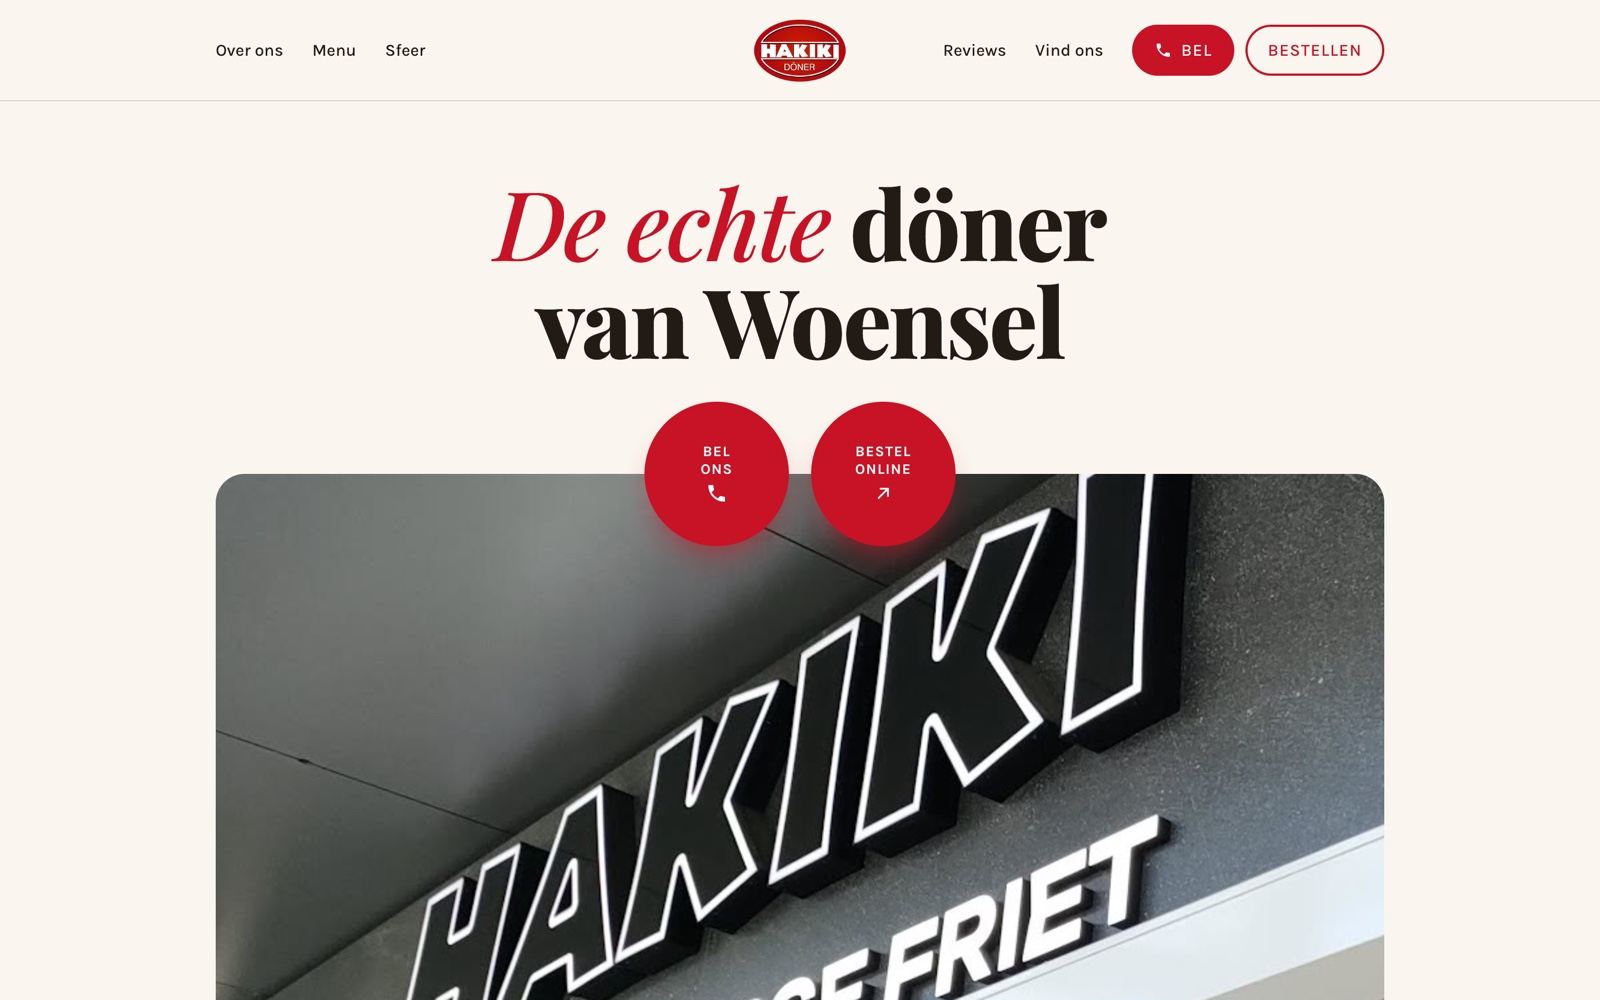
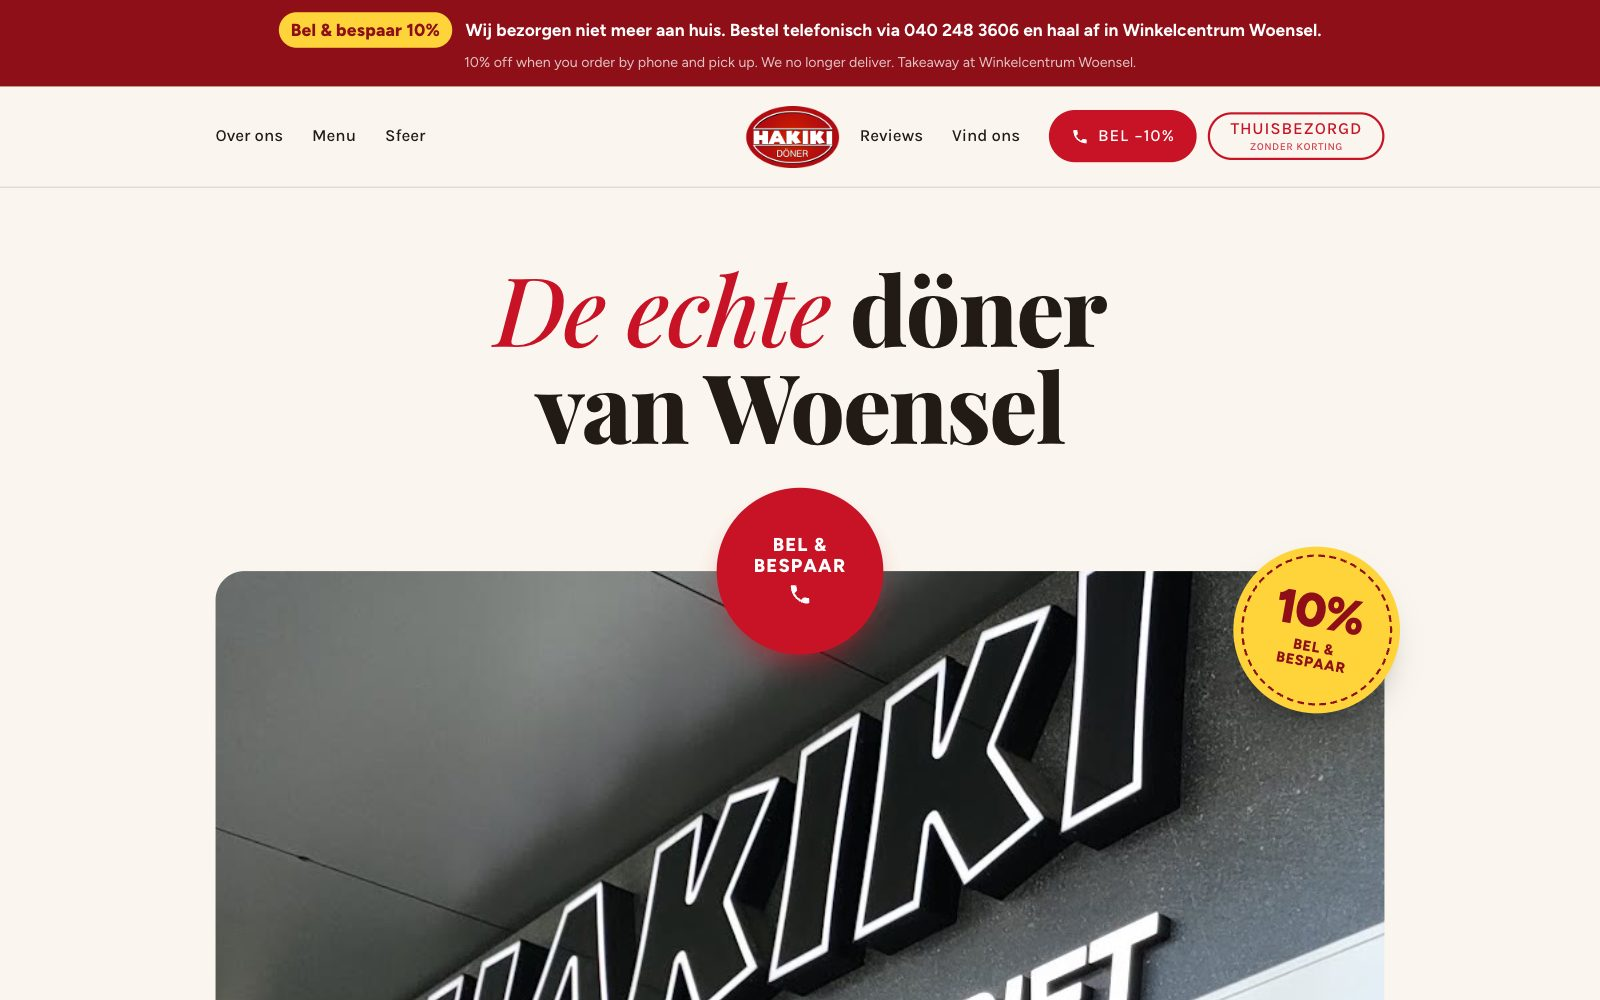
Update Hakiki case study to the new Bel & Bespaar site
Hakiki stopped delivering and now pushes direct phone orders with
pick-up, with Thuisbezorgd as a secondary option. The case copy still
said "bestellen in twee tikken" and the screenshot predated the change.

- Fresh 1600x1000 screenshot (popups hidden, own visit excluded from Umami)
- Copy now leads with direct ordering without platform commission and
  cookie-free click tracking; no hardcoded discount percentage since
  that offer is temporary
- Tags: swap "Foto's" for "Direct bestellen" and "Cookievrije statistieken"
- Fix img height attribute (1311 -> 1000) to match the real aspect ratio
- Sitemap lastmod 2026-10-02

diff --git a/index.html b/index.html
@@ -320,14 +320,14 @@
           <div class="case__shot">
             <div class="browser">
               <div class="browser__bar" aria-hidden="true"><i></i><i></i><i></i><span class="browser__url">hakiki.nl</span></div>
-              <img src="assets/work/hakiki-doner.jpg" width="1600" height="1311" loading="lazy"
-                alt="Homepage van de Hakiki Döner-website met de kop 'De echte döner van Woensel' en de gevel van de zaak." />
+              <img src="assets/work/hakiki-doner.jpg" width="1600" height="1000" loading="lazy"
+                alt="Homepage van de Hakiki Döner-website met de kop 'De echte döner van Woensel', een grote belknop en de gevel van de zaak." />
             </div>
           </div>
           <div class="case__body">
             <h3 class="case__name">Hakiki <em>Döner</em></h3>
-            <p class="case__desc" data-en="A fast site for 'the real döner of Woensel'. Customers see the menu and opening hours straight away, and order in two taps. Live in weeks.">Een snelle site voor 'de echte döner van Woensel'. Klanten zien direct het menu en de openingstijden, en bestellen in twee tikken. Live in weken.</p>
-            <ul class="case__tags"><li data-en="Website">Website</li><li data-en="Photos">Foto's</li><li data-en="Menu online">Menu online</li><li data-en="Found on Google">Vindbaar in Google</li></ul>
+            <p class="case__desc" data-en="A fast site for 'the real döner of Woensel'. One big button gets customers to call and pick up directly, with no platform commission. Every call and route click is measured, without cookies.">Een snelle site voor 'de echte döner van Woensel'. Eén grote knop laat klanten rechtstreeks bellen en afhalen, zonder platformcommissie. Elke klik op bellen en route meten we, zonder cookies.</p>
+            <ul class="case__tags"><li data-en="Website">Website</li><li data-en="Direct orders">Direct bestellen</li><li data-en="Menu online">Menu online</li><li data-en="Cookie-free stats">Cookievrije statistieken</li><li data-en="Found on Google">Vindbaar in Google</li></ul>
             <a class="case__link" href="https://hakiki.nl" target="_blank" rel="noopener">
               <span data-en="View the live site">Bekijk de live site</span>
               <svg viewBox="0 0 24 24" width="16" height="16" aria-hidden="true"><path d="M7 17 17 7M9 7h8v8" fill="none" stroke="currentColor" stroke-width="2" stroke-linecap="round" stroke-linejoin="round"/></svg>
